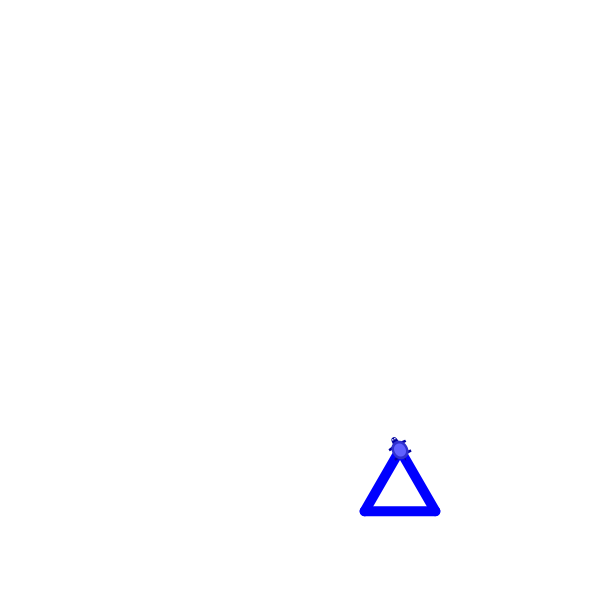
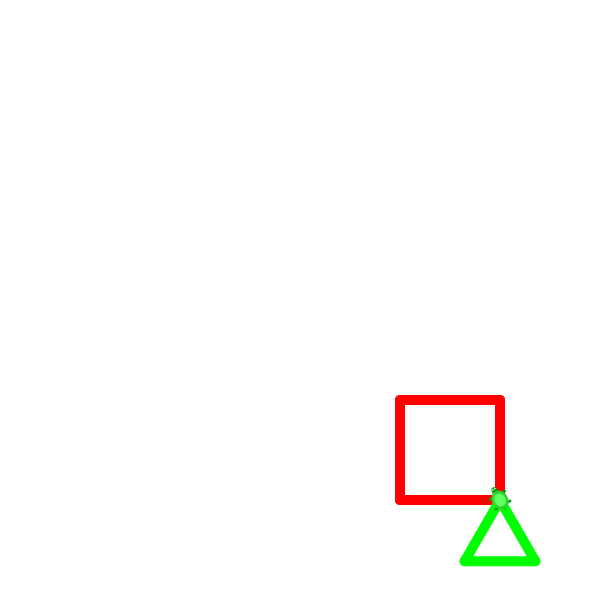
Complete add shape and save shape methods

Changed region(s): [[0.6, 0.66, 0.9, 0.96]]

diff --git a/src/main/java/com/pluralsight/MainApp.java b/src/main/java/com/pluralsight/MainApp.java
@@ -63,6 +63,7 @@ public class MainApp {
 
         while (true) {
             final Map<String, Color> COLOR_MAP = new HashMap<>();
+            Point location;
 
             {
                 // Initialize the color map
@@ -96,10 +97,15 @@ public class MainApp {
 
             System.out.print("What is the location of the shape (x,y)?:");
             String userResponse = keyboard.nextLine();
-            String [] responseSplit = userResponse.split(Pattern.quote(","));
-            int x = Integer.parseInt(responseSplit[0]);
-            int y = Integer.parseInt(responseSplit[1]);
-            Point location = new Point(x, y);
+            if (userResponse.isEmpty()) {
+                location = new Point(100, -100);
+            } else {
+                String[] responseSplit = userResponse.split(Pattern.quote(","));
+                int x = Integer.parseInt(responseSplit[0]);
+                int y = Integer.parseInt(responseSplit[1]);
+                location = new Point(x, y);
+            }
+
 
             switch (shapeChoice) {
                 case 1:
